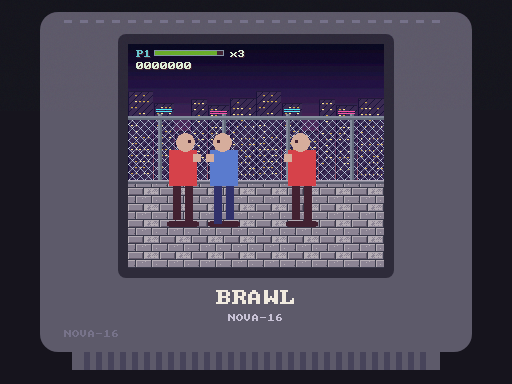
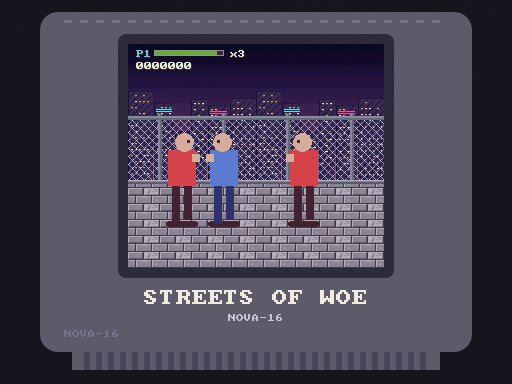
Streets of Woe: the new name; a hit in the air always knocks down (fixes a jump that never came down)
Claude-Session: https://claude.ai/code/session_01Nc4JskrxPXMSXcsQP1Fakb

diff --git a/carts/src/brawl/code.js b/carts/src/brawl/code.js
@@ -1,4 +1,4 @@
-// Brawl: a Streets of Rage style beat 'em up (docs/carts/brawl.md). One street, a hero with a three-hit combo and a jump
+// Streets of Woe: a Streets of Rage style beat 'em up (docs/carts/brawl.md). One street, a hero with a three-hit combo and a jump
 // kick, and one kind of enemy in four waves. Built game first: every fighter is drawn by one small art layer,
 // drawFighter(), as plain shapes taken from the same frame table (ANIM) the rules use; real art replaces that function.
 // The frame of the game (title, pause, game over, top 10, records, sound cues) is the starter's.
@@ -177,7 +177,7 @@ function landHit(a, t, mv) {
   const dir = a.x <= t.x ? 1 : -1;
   t.face = -dir; t.token = false; t.queue = false;
   if (a === player) { score += 10; lastHit = t; lastHitT = 180; }
-  if (t.hp <= 0 || mv.down) knockDown(t, dir);
+  if (t.hp <= 0 || mv.down || t.h > 0) knockDown(t, dir);        // a hit in the air always knocks down (he must fall)
   else { setAnim(t, 'hurt'); t.vx = dir * 6 / 16; }
   fx(SFX.hit);
 }
@@ -489,7 +489,7 @@ function drawHud() {
 }
 
 function drawTitle() {
-  ctxt('BRAWL', 50, GOLD);
+  ctxt('STREETS OF WOE', 50, GOLD);
   ['PLAY', 'RECORDS'].forEach((s, i) => txt(`${i === titleSel ? '> ' : '  '}${s}`, 96, 100 + i * 14, i === titleSel ? WHITE : DIM));
 }
 

diff --git a/README.md b/README.md
@@ -65,7 +65,7 @@ Cursor) or a chat, which then makes a game with you from this repository. You ca
 | `water` | `scanline()` reflection with per-line wobble and palette swaps |
 | `mode7` | Per-line BG2 affine perspective floor and sky gradient |
 | `street` | The art kit's drawn figures: a 96 px brawler drawn in designed shapes on a skeleton, his frames streamed into tile memory as they play, his idle, walk, punch and kick animated from poses, on a night street after Streets of Rage 2 (LEFT/RIGHT, A, B) |
-| `brawl` | A Streets of Rage style beat 'em up in placeholder shapes: one street, four waves of thugs, a three-hit combo, jump kick, hit stop and knockdowns (D-pad, A attack, B jump, SELECT shows the hit boxes) |
+| `brawl` | Streets of Woe: a Streets of Rage style beat 'em up in placeholder shapes: one street, four waves of thugs, a three-hit combo, jump kick, hit stop and knockdowns (D-pad, A attack, B jump, SELECT shows the hit boxes) |
 | `showcase` | The art kit's SNES tools at work (docs/dev/snes-picture.md): two sculpted boxers in a ring, framed as Super Punch-Out!! (our hero from behind), with a receded crowd and HUD lettering, and a parallax valley under a sky gradient (LEFT and RIGHT) |
 | `effects` | Colour blending, brightness, windows and mosaic: a see-through panel, shadows, light, water, fades, spotlights, an iris wipe, coloured glass and the mosaic, one page each (LEFT and RIGHT) |
 | `chiptune` | A six-channel song and five sound effects on the old sound chip (a version-1 cart, kept as it was), all editable in the Music and SFX tabs |

diff --git a/docs/carts/brawl.md b/docs/carts/brawl.md
@@ -1,4 +1,4 @@
-# Brawl: Cart Specification
+# Streets of Woe: Cart Specification
 
 **Version:** 0.1 (draft)
 **Status:** In progress: building the game with placeholder shapes first (section 12); real fighter art plugs in later
@@ -76,6 +76,7 @@ attack hits. Real art must have its feet at the pivot and fit these boxes (or th
 - B jumps: `vz` = 5.2, gravity 0.3 a frame, so 35 frames in the air and a peak height of about 45. The jump keeps the
   player's walking speed in the air. A in the air is the jump kick. Landing costs 6 frames.
 - **Hit stop:** when an attack connects, both fighters freeze for 5 frames (the game, not the music).
+- A fighter hit **in the air** is always knocked down (so he falls and cannot hang in the air).
 - A hit target is **knocked back** 6 px over the stun; a **knockdown** throws him 2.4 px a frame away from the attacker
   with `vz` 3.4 and gravity 0.3, he lies 40 frames, then gets up (20 frames, invulnerable).
 - A hit lands if the attacker's hit box overlaps the target's hurt box (both in screen pixels, heights included) and their
